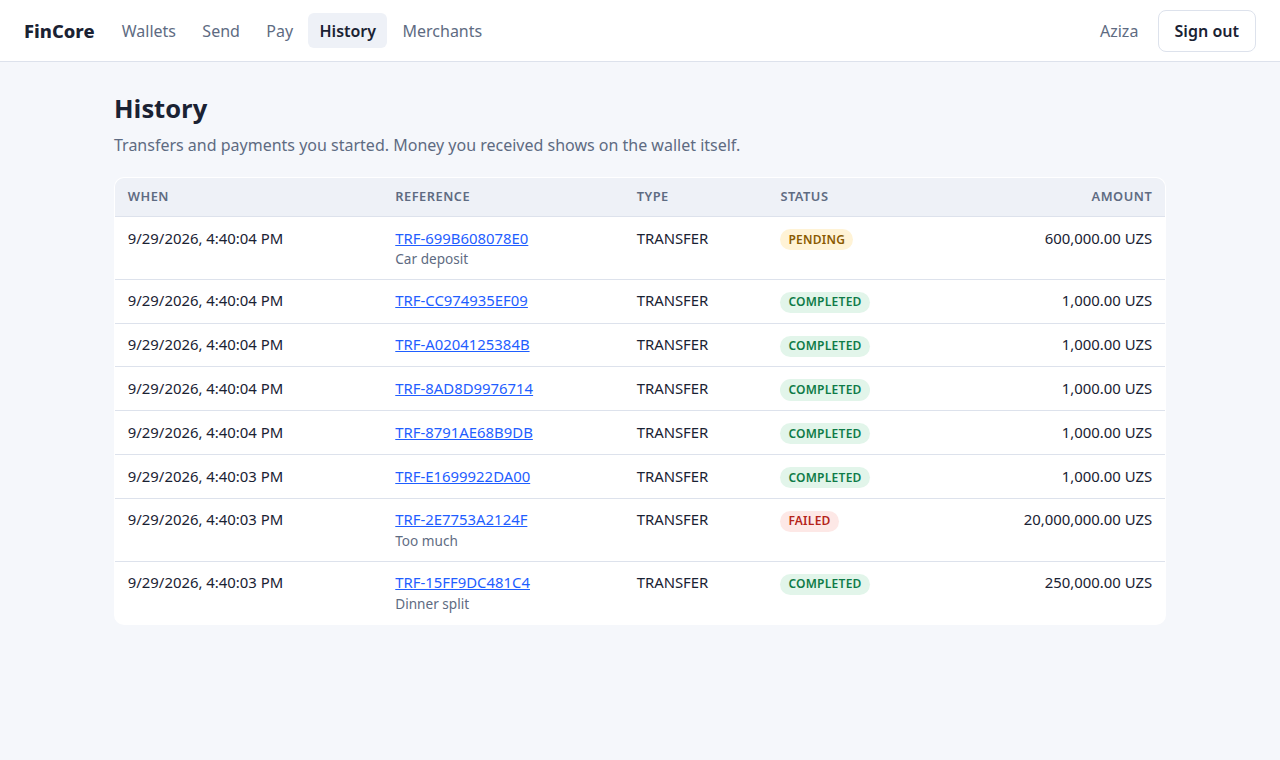
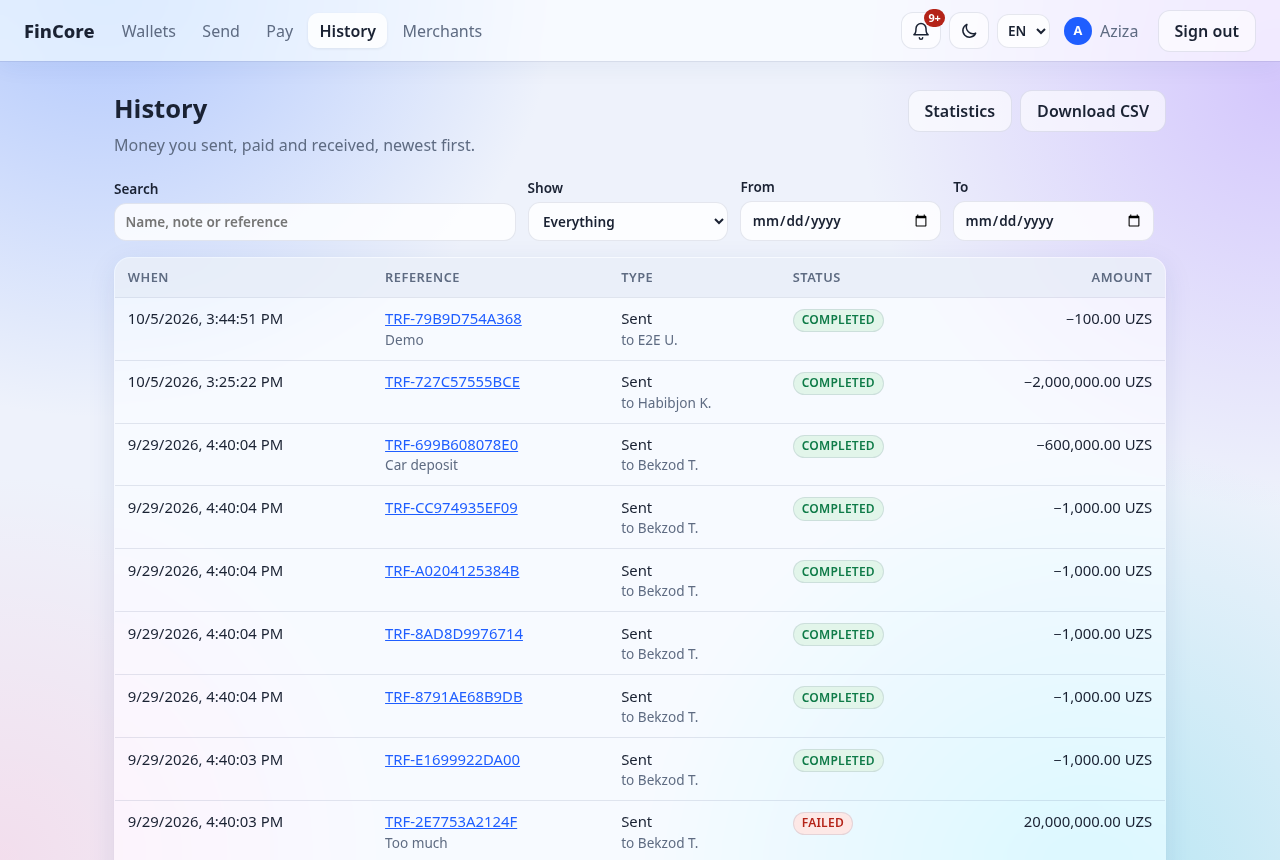
docs: lead the README with what the product does, and current screenshots
The first screen of the README was a paragraph of architecture terms.
It now shows the app (home, service payments, statistics, the admin
dashboard) and lists what a customer and staff can do, before saying
how it is built. The status paragraph counted 48 end-to-end tests; there
are 84.

Also: the admin sidebar is dark in both themes, but its sign-out and
theme buttons were drawn for a light surface.

diff --git a/frontend/src/styles.css b/frontend/src/styles.css
@@ -2941,3 +2941,13 @@ a.service-tile {
 .goal-history li + li {
   border-top: 1px solid var(--hairline, var(--border));
 }
+
+/* The console's sidebar is dark in both themes: its buttons are drawn
+   for that, not for the page's light surface. */
+.admin-account-actions .button,
+.admin-account-actions .theme-button {
+  background: transparent;
+  color: #e5e7eb;
+  border-color: #374151;
+  box-shadow: none;
+}

diff --git a/README.md b/README.md
@@ -19,24 +19,60 @@ after a crash or a reboot. To give your own copy a public link, see
 A digital wallet and payment platform built as a microservices system, in
 the style of a real core-banking backend: database-per-service,
 double-entry ledger, sagas for distributed consistency, transactional
-outbox, and asymmetric-JWT auth with JWKS.
+outbox, and asymmetric-JWT auth with JWKS. In Uzbek, Russian and English.
+
+| | |
+|---|---|
+| ![Home: wallets, quick actions, recent activity](docs/screenshots/wallets.png) | ![Paying service providers](docs/screenshots/pay.png) |
+| ![Statistics: money in and out, spending by category](docs/screenshots/stats.png) | ![Admin dashboard](docs/screenshots/admin-dashboard.png) |
+
+**What a customer can do**
+
+* Open UZS and USD wallets, each with its own card number; name them,
+  pick a main one, block one, set a daily limit.
+* Send money by card number, phone number or QR code, with the
+  recipient's name shown first; ask someone for money; exchange between
+  their own wallets at a quoted rate.
+* Pay service providers (mobile, internet, utilities, TV) and merchants,
+  by id or by the merchant's QR code; save a payment as a template and
+  have it made automatically every week or month.
+* Set money aside in savings goals.
+* See a searchable history, PDF receipts, a CSV statement, monthly
+  statistics and spending by category.
+* Sign in with a password and, optionally, a code sent by email; reset
+  a forgotten password; see and end their sessions.
+* Get notifications, bank news and staff announcements in one bell; ask
+  an AI assistant, or write to a human operator.
+
+**What staff can do** (a separate console at `/admin`): a dashboard of
+what is waiting and what happened, the fraud review queue, users and a
+page per customer, every transaction with CSV export, webhook
+endpoints, announcements, and the support inbox.
+
+**What is underneath**: eight Python services behind an Nginx gateway,
+each with its own PostgreSQL database, talking over internal REST and
+Kafka. Money is integers in a double-entry ledger; every money movement
+is a saga with an idempotency key and a recovery path; every event
+leaves through a transactional outbox. Each non-obvious decision is an
+[ADR](docs/adr/) - ten so far - and
+[Failure scenarios handled today](#failure-scenarios-handled-today)
+lists what happens when things go wrong, each backed by a test.
 
 This is a learning-driven, production-oriented portfolio project — not a
-tutorial. Every non-obvious decision is recorded as an [ADR](docs/adr/)
-rather than left implicit, and the full design rationale lives in
+tutorial. The full design rationale lives in
 [`docs/spec.md`](docs/spec.md).
 
-**Status: Phases 0–7 complete.** All eight services — identity,
-ledger, payment, fraud, notification, webhook, audit and the AI
-assistant — are built,
-tested and run together via Docker Compose with the gateway, Kafka,
-Jaeger, Prometheus and Grafana, plus a React + TypeScript web app (user
-dashboard and support/admin panel) served through the same gateway.
-Every package has unit and integration tests against real
-PostgreSQL/Kafka, every API and event is covered by a committed
-contract, a 48-test end-to-end suite runs against the live stack in CI,
-and a load test gates on ledger reconciliation. Integrations designed but not yet built are listed
-in [`docs/context-map.md`](docs/context-map.md); the table in
+**Status.** All eight services — identity, ledger, payment, fraud,
+notification, webhook, audit and the AI assistant — are built, tested
+and run together via Docker Compose with the gateway, Kafka, Jaeger,
+Prometheus and Grafana, plus a React + TypeScript web app (customer
+site and admin console) served through the same gateway. Every package
+has unit and integration tests against real PostgreSQL/Kafka, every API
+and event is covered by a committed contract, an 84-test end-to-end
+suite runs against the live stack in CI, and a load test gates on
+ledger reconciliation. Service payments are a demonstration: FinCore is
+not connected to any provider. Integrations designed but not yet built
+are listed in [`docs/context-map.md`](docs/context-map.md); the table in
 [Roadmap](#roadmap) tracks status precisely — nothing here is described
 as done unless it's tested and running.
 
@@ -962,18 +998,22 @@ money or change anything.
 
 ### Web app (`frontend/`)
 
-| Wallets | Merchant: received payments, refunds, webhooks |
+| Sending money | History, searched and filtered |
 |---|---|
-| ![Wallets](docs/screenshots/wallets.png) | ![Merchant](docs/screenshots/merchant.png) |
-| **Admin: fraud review queue** | **Admin: all transactions** |
-| ![Review queue](docs/screenshots/admin-reviews.png) | ![All transactions](docs/screenshots/admin-transactions.png) |
+| ![Send](docs/screenshots/send.png) | ![History](docs/screenshots/history.png) |
+| **Merchant: received payments, refunds, webhooks** | **Admin: fraud review queue** |
+| ![Merchant](docs/screenshots/merchant.png) | ![Review queue](docs/screenshots/admin-reviews.png) |
 
-More: [wallet ledger entries](docs/screenshots/wallet.png),
-[history](docs/screenshots/history.png),
+More: [home](docs/screenshots/wallets.png) and the same in
+[dark mode](docs/screenshots/wallets-dark.png),
+[service payments](docs/screenshots/pay.png),
+[statistics](docs/screenshots/stats.png),
+[wallet ledger entries](docs/screenshots/wallet.png),
 [account and sessions](docs/screenshots/settings.png),
-[admin user search](docs/screenshots/admin-users.png),
-[dark mode](docs/screenshots/wallets-dark.png). Captured from the running
-stack with demo data seeded through the public API.
+[admin dashboard](docs/screenshots/admin-dashboard.png),
+[all transactions](docs/screenshots/admin-transactions.png),
+[user search](docs/screenshots/admin-users.png). Captured from the
+running stack with demo data.
 
 React 19 + TypeScript + Vite single-page app
 ([ADR-0005](docs/adr/0005-frontend-addition.md)), served by its own
